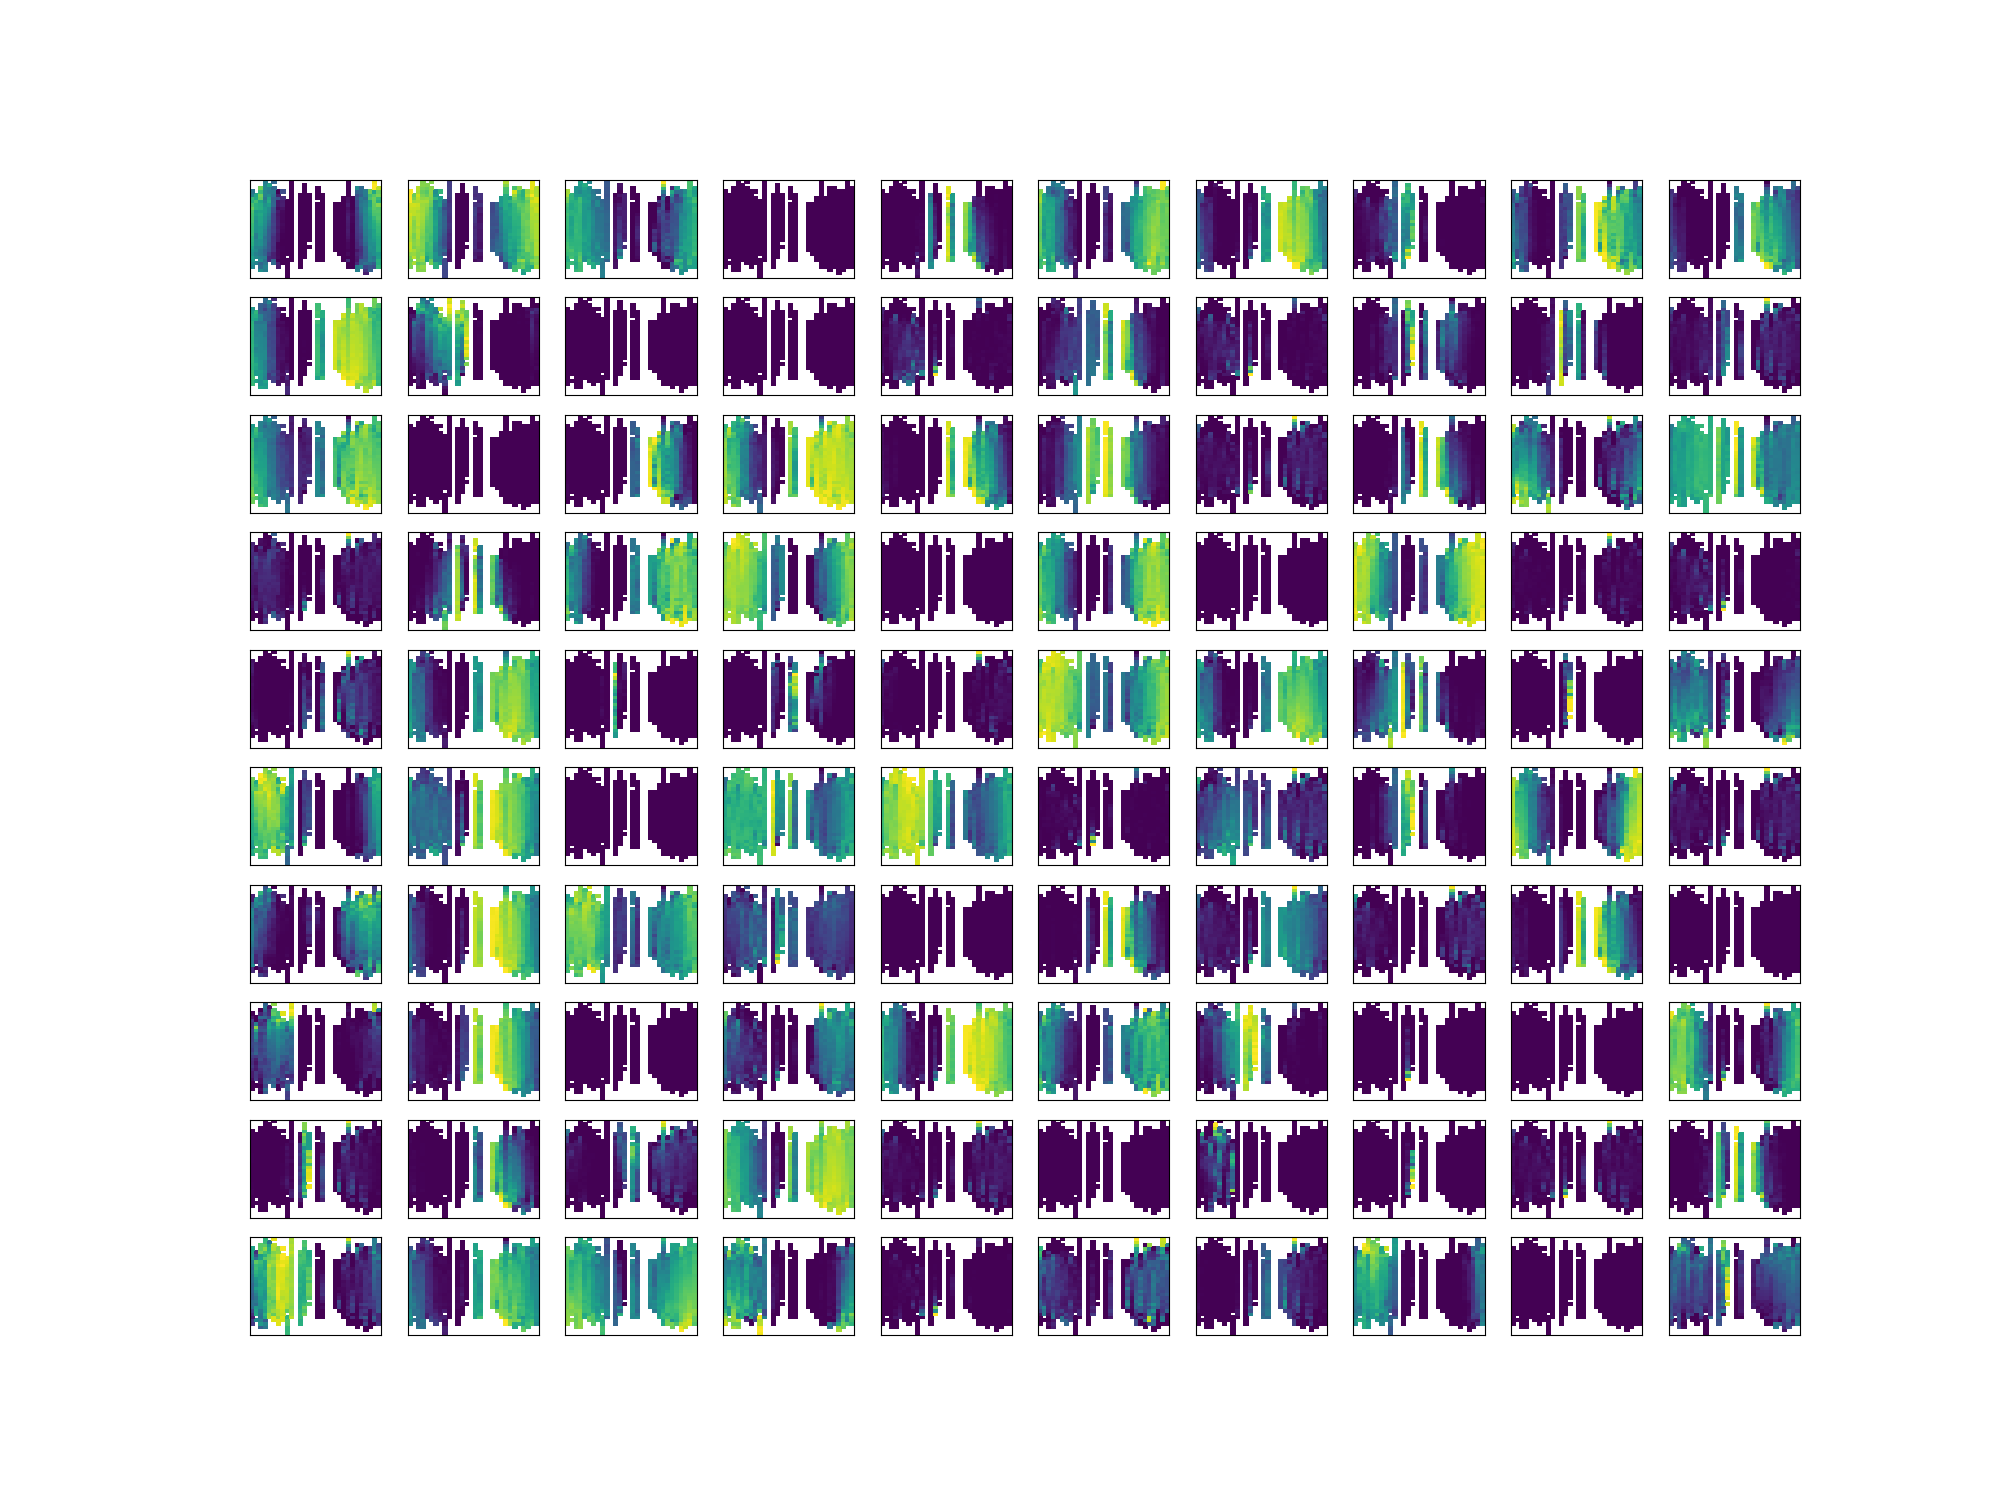
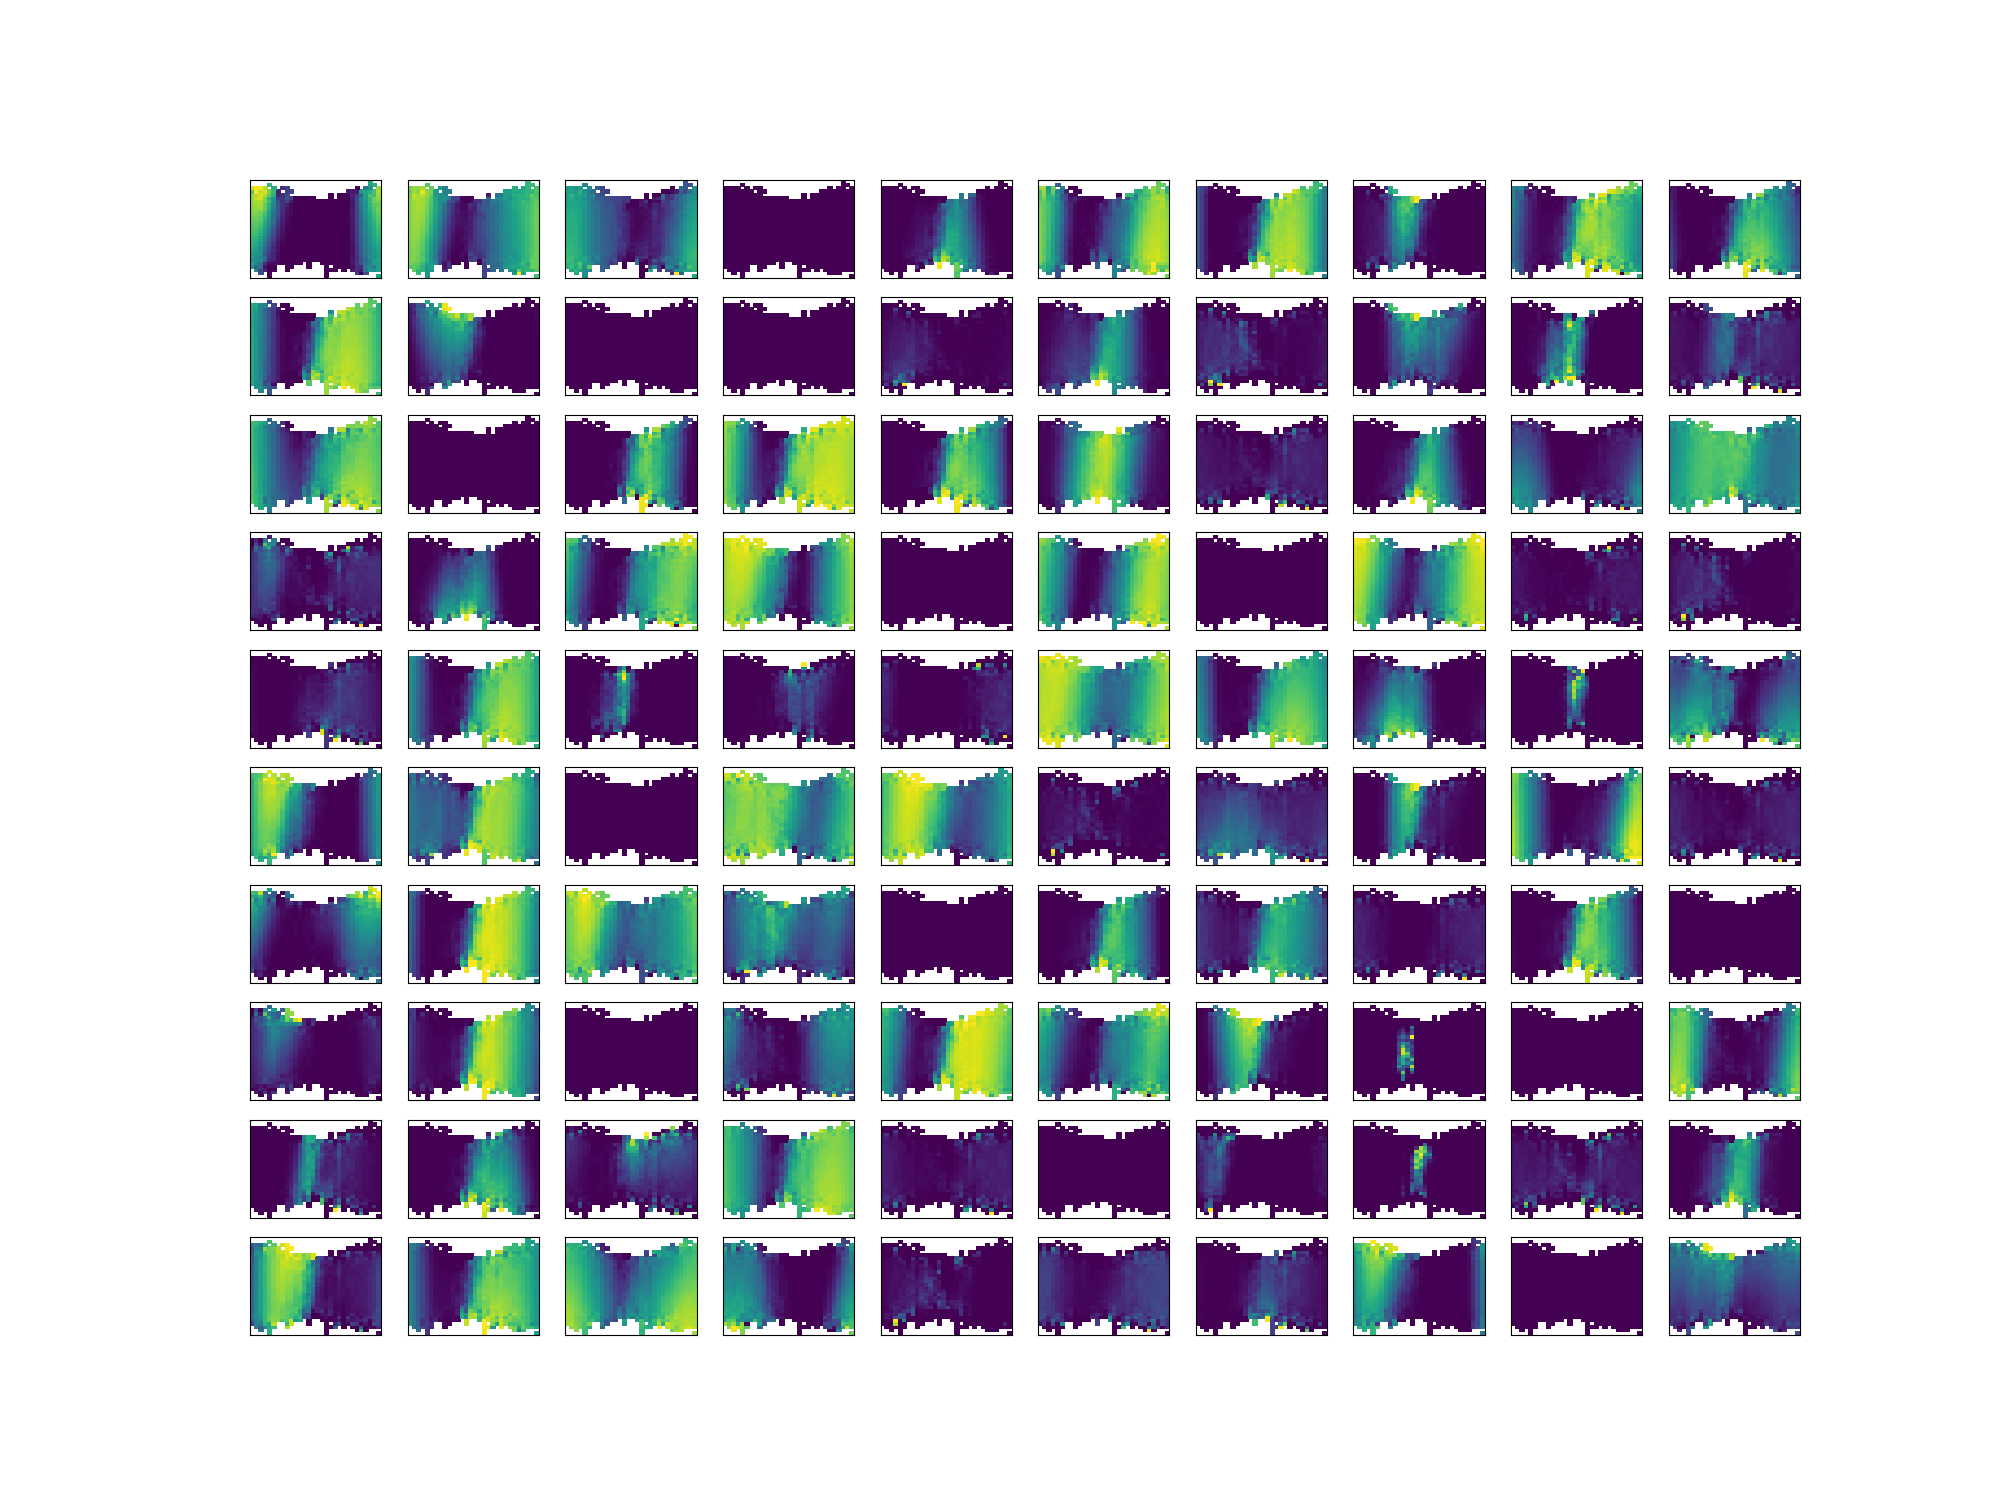
Updates

Changed region(s): [[0.124, 0.1227, 0.899, 0.8893]]

diff --git a/src/plot_activations.py b/src/plot_activations.py
@@ -20,11 +20,18 @@ def main():
         criterion = criterion.cuda()
     model.load_state_dict(torch.load('activations_fakedata.pt', map_location=torch.device(device)))
 
-    inputs = None 
-    outputs = None
-    hidden_states = None
-    for i in range(10):
-        train_data_size = 100
+    plot_caption = 'fakeAngs2'
+    try:
+        inputs = np.load("inputs.npy")
+        outputs = np.load("outputs.npy")
+        hidden_states = np.load("hidden_states.npy")
+    except:
+        inputs = None 
+        outputs = None
+        hidden_states = None
+
+    for i in range(3):
+        train_data_size = 70
         train_data_len = 700
         dt = .025
         initdir, input, output = gen_batch(train_data_size,train_data_len,dt,25,[],7, [0.0])
@@ -43,6 +50,10 @@ def main():
             inputs = np.concatenate((inputs, np_input), axis=1)
             outputs = np.concatenate((outputs, np_output), axis=1)
             hidden_states = np.concatenate((hidden_states, np_h), axis=1)
+        
+        del initdir 
+        del input 
+        del output 
 
     train_data_size = 100
     train_data_len = 700
@@ -53,8 +64,7 @@ def main():
     pred, h = model(initdir, input)
     loss = criterion(pred, output)
     print(f"Loss on test data: {loss.item():.4f}")
-    hidden_states = np.array(h.cpu().detach().numpy())
-    import pdb; pdb.set_trace()
+    np_h = np.array(h.cpu().detach().numpy())
 
     pred = np.transpose(pred.detach().cpu().numpy(), (2, 1, 0))
     pred = np.reshape(pred, (pred.shape[0], -1))
@@ -70,19 +80,23 @@ def main():
     plt.ylabel('Angle (rad)')
     plt.title('Prediction Visualization')
     plt.legend()
-    plt.savefig('performance_fakeAngs2.png')
+    plt.savefig(f'performance_{plot_caption}.png')
 
-    plotActivations(hidden_states, input, output)
+    print("Saving hidden_states, inputs, outputs to disk")
+    np.save("hidden_states.npy", hidden_states)
+    np.save("inputs.npy", inputs)
+    np.save("outputs.npy", outputs)
+    plotActivations(hidden_states, inputs, outputs, plot_caption)
 
     del initdir 
     del input 
     del output 
 
-def plotActivations(hidden_states, input, output):
+def plotActivations(hidden_states, inputs, outputs, plot_caption):
     from scipy.stats import binned_statistic, binned_statistic_2d
     seqlen = hidden_states.shape[0] * hidden_states.shape[1]
-    velocities = input.cpu().detach().numpy().reshape(seqlen, -1)[:, 0]
-    reshaped_output = output.cpu().detach().numpy().reshape(seqlen, -1)
+    velocities = inputs.reshape(seqlen, -1)[:, 0]
+    reshaped_output = outputs.reshape(seqlen, -1)
     headdirs = np.unwrap(np.arctan2(reshaped_output[:,0], reshaped_output[:,1])) % (2 * np.pi)
 
     print("Hidden states shape: ", hidden_states.shape)
@@ -96,13 +110,13 @@ def plotActivations(hidden_states, input, output):
 
         activations = torch.relu( torch.tanh( torch.from_numpy( hidden_states.reshape(seqlen, -1)[:, cell] ) ) )
         
-        print(f"Doing it for cell={cell}")
+        # print(f"Doing it for cell={cell}")
         bs = binned_statistic_2d(velocities, headdirs, activations, bins=[30, 30])
         curr_ax.pcolormesh(bs[1], bs[2], bs[0])
         curr_ax.set_yticks([])
         curr_ax.set_xticks([])
     
-    plt.savefig(f"activations_fakeAngs2.png")
+    plt.savefig(f"activations_{plot_caption}.png")
     plt.clf()
 
     _, ax = plt.subplots(10, 10, figsize=(20,15))
@@ -112,13 +126,13 @@ def plotActivations(hidden_states, input, output):
 
         activations = torch.relu( torch.tanh( torch.from_numpy( hidden_states.reshape(seqlen, -1)[:, cell] ) ) )
 
-        print(f"Doing it for cell={cell}, no bins")
+        # print(f"Doing it for cell={cell}, no bins")
         bs = binned_statistic(headdirs, activations)
         curr_ax.plot( (bs[1][1:] + bs[1][:-1]) / 2, bs[0])
         curr_ax.set_yticks([])
         curr_ax.set_xticks([])
     
-    plt.savefig(f"activations_fakeAngs_headdirs2.png")
+    plt.savefig(f"activations_{plot_caption}_headdirs.png")
     plt.clf()
 
     _, ax = plt.subplots(10, 10, figsize=(20,15))
@@ -128,13 +142,13 @@ def plotActivations(hidden_states, input, output):
 
         activations = torch.relu( torch.tanh( torch.from_numpy( hidden_states.reshape(seqlen, -1)[:, cell] ) ) )
 
-        print(f"Doing it for cell={cell}")
+        # print(f"Doing it for cell={cell}")
         bs = binned_statistic(velocities, activations)
         curr_ax.plot( (bs[1][1:] + bs[1][:-1]) / 2, bs[0])
         curr_ax.set_yticks([])
         curr_ax.set_xticks([])
     
-    plt.savefig(f"activations_fakeAngs_vels2.png")
+    plt.savefig(f"activations_{plot_caption}_vels.png")
     plt.clf()
 
 if __name__ == '__main__':
